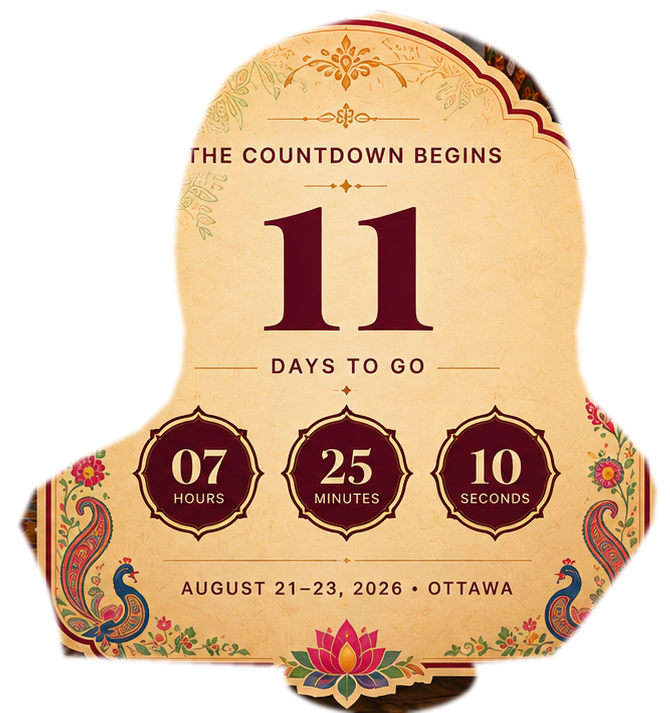
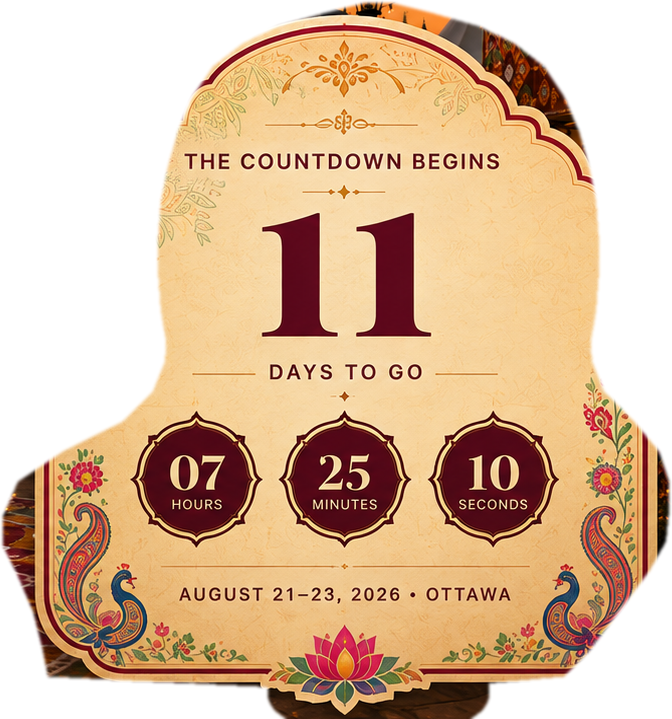
Update countdown card

Changed region(s): [[0.0, 0.0, 1.0, 1.0]]

diff --git a/components/home/Countdown.tsx b/components/home/Countdown.tsx
@@ -12,17 +12,18 @@ import { TicketNotch, GoldRule, MandalaCorner } from "@/components/ornament/Orna
 // than kept in a parallel array so rendering never needs to index into a
 // second array by position.
 const SUB_UNITS = [
-  { key: "hours", label: "Hours", center: 30 },
-  { key: "minutes", label: "Minutes", center: 52.3 },
-  { key: "seconds", label: "Seconds", center: 74.5 },
+  { key: "hours", label: "Hours", center: 29.6 },
+  { key: "minutes", label: "Minutes", center: 51.9 },
+  { key: "seconds", label: "Seconds", center: 74.0 },
 ] as const;
 
 // Percentage geometry measured directly off the reference artwork
-// (public/media/hero/countdown-card.png, 670×713, cropped tight to the
-// card's own silhouette) — see the long comment below for how these were
-// derived and why they exist at all.
-const DAY_BOX = { left: 38.5, top: 27.5, width: 24, height: 19 };
-const MEDALLION_BOX = { top: 60, width: 17, height: 9.5 };
+// (public/media/hero/countdown-card.png, 672×719, cropped tight to the
+// card's own silhouette — re-measured after the mask was regenerated with
+// a wider safety margin, see the file comment below) — see the long
+// comment further down for how these were derived and why they exist.
+const DAY_BOX = { left: 38.1, top: 28.1, width: 23.9, height: 18.8 };
+const MEDALLION_BOX = { top: 60.3, width: 17, height: 9.4 };
 const CARD_PAPER = "#F7D7A3";
 const MEDALLION_FILL = "#520817";
 
@@ -41,8 +42,13 @@ const MEDALLION_FILL = "#520817";
  * a cropped, background-removed version of the client's reference PNG (the
  * photographic backdrop baked into the original crop was masked out by
  * hand-tracing the card's silhouette in this session, since no background-
- * removal model was reachable from this sandbox — see the file header note
- * below on that mask's precision).
+ * removal model was reachable from this sandbox). The first mask traced the
+ * silhouette too tightly and clipped slivers of the card's own border/vine
+ * artwork in a few spots — visible as small missing bits of background right
+ * at the edge. The mask was regenerated with a ~15px outward safety margin
+ * (better to let a thin, barely-visible sliver of the original photo bleed
+ * in at the very edge than to lose real card artwork), which is why this
+ * crop is a few pixels larger than the first pass.
  *
  * Everything that actually changes at runtime is still real, live HTML laid
  * on top of the artwork at measured percentage positions, NOT baked into
@@ -158,7 +164,7 @@ export function Countdown() {
 
   return (
     <div className="relative mx-auto w-full max-w-[19rem] sm:max-w-[21rem]">
-      <div className="relative" style={{ aspectRatio: "670 / 713" }}>
+      <div className="relative" style={{ aspectRatio: "672 / 719" }}>
         <Image
           src="/media/hero/countdown-card.png"
           alt=""
